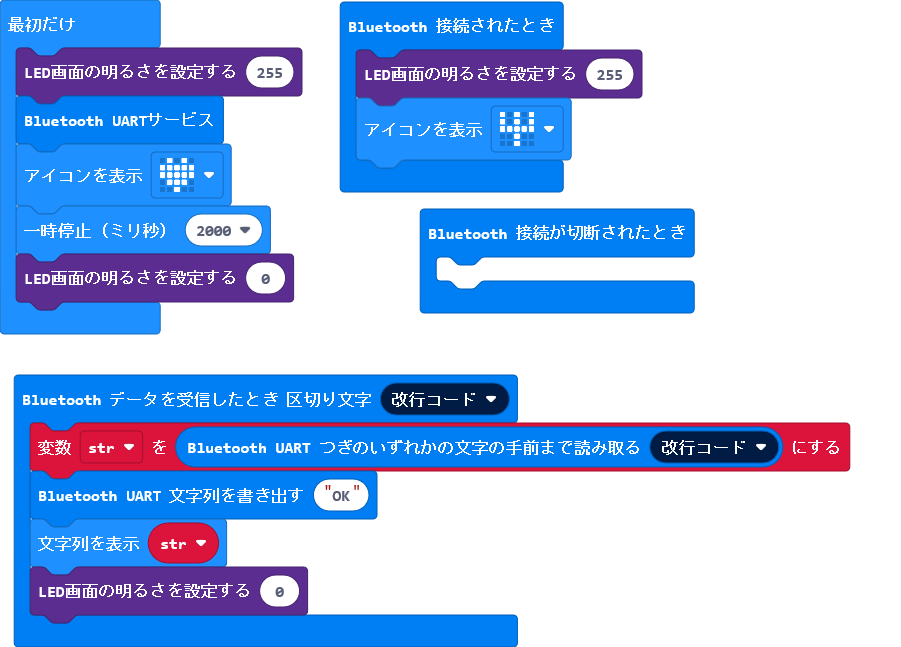
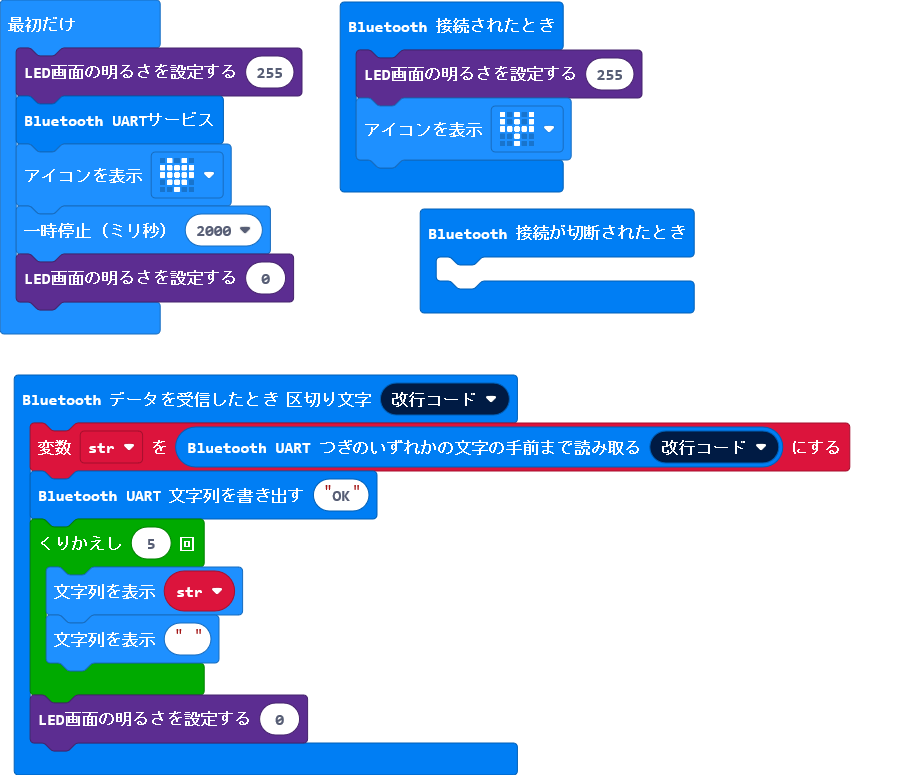
表示を5回繰り返すようにした

diff --git a/main.ts b/main.ts
@@ -8,7 +8,10 @@ bluetooth.onBluetoothDisconnected(function () {
 bluetooth.onUartDataReceived(serial.delimiters(Delimiters.NewLine), function () {
     str = bluetooth.uartReadUntil(serial.delimiters(Delimiters.NewLine))
     bluetooth.uartWriteString("OK")
-    basic.showString(str)
+    for (let index = 0; index < 5; index++) {
+        basic.showString(str)
+        basic.showString(" ")
+    }
     led.setBrightness(0)
 })
 let str = ""
